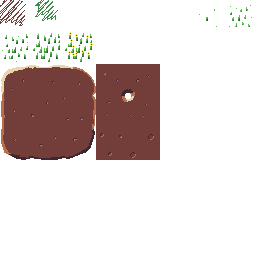
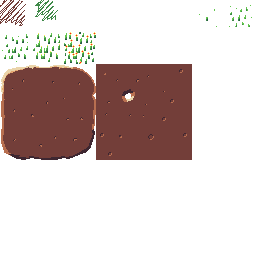
A better final grass tile (doesn’t look like tiles that much). A few more center tiles to add variation.

diff --git a/assets/tiles.tsx b/assets/tiles.tsx
@@ -9,14 +9,17 @@
  <tile id="18" terrain=",,0,"/>
  <tile id="19" terrain="0,0,0,"/>
  <tile id="20" terrain="0,0,,0"/>
+ <tile id="21" terrain="0,0,0,0"/>
  <tile id="24" terrain=",0,,0"/>
  <tile id="25" terrain="0,0,0,0"/>
  <tile id="26" terrain="0,,0,"/>
  <tile id="27" terrain="0,,0,0"/>
  <tile id="28" terrain=",0,0,0"/>
+ <tile id="29" terrain="0,0,0,0"/>
  <tile id="32" terrain=",0,,"/>
  <tile id="33" terrain="0,0,,"/>
  <tile id="34" terrain="0,,,"/>
  <tile id="35" terrain="0,0,0,0"/>
  <tile id="36" terrain="0,0,0,0"/>
+ <tile id="37" terrain="0,0,0,0"/>
 </tileset>
